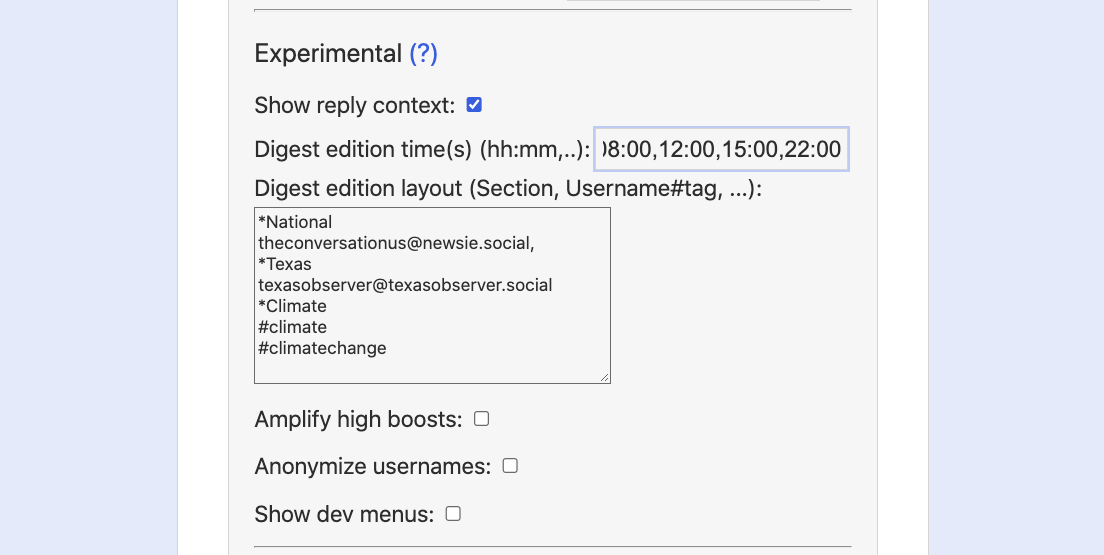
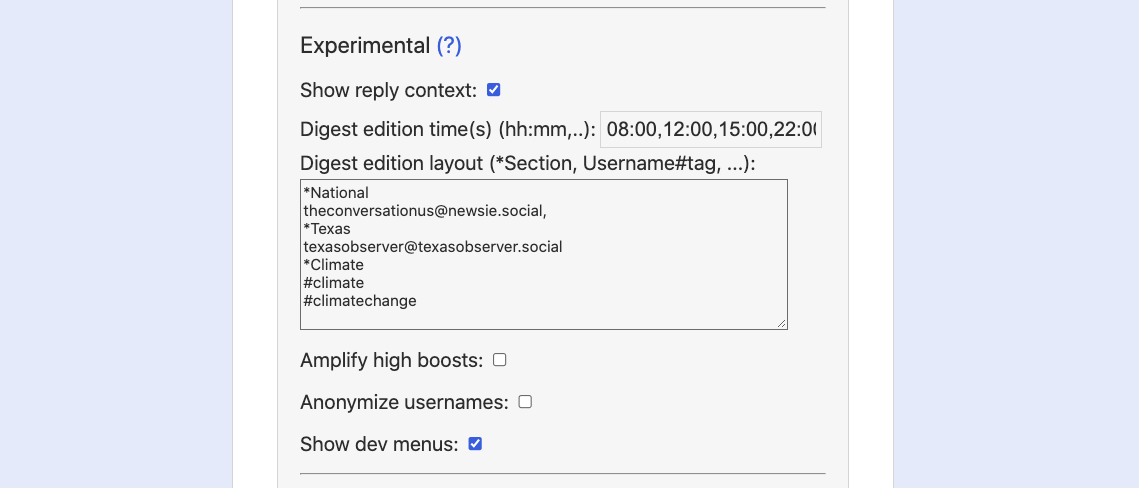
minor fixes

Changed region(s): [[0.154, 0.0, 0.8623, 1.0], [0.2772, 0.0, 0.7391, 0.0307], [0.6775, 0.6455, 0.7083, 0.6762]]

diff --git a/src/routes/_pages/settings/curation.html b/src/routes/_pages/settings/curation.html
@@ -57,7 +57,7 @@
              bind:value='$curationEditionTime' placeholder="hh:mm[, hh:mm, ...] local time for daily digest edition(s)"
       >
     <br>
-    <label for="curationEditionLayout">Digest edition layout (Section, Username#tag, ...):</label>
+    <label for="curationEditionLayout">Digest edition layout (*Section, Username#tag, ...):</label>
         <textarea bind:value="$curationEditionLayout"
                   placeholder="username1, username2@server2 *SectionName username3@server3#tag3, #followedTag, ..."
                   maxlength="1000"></textarea>

diff --git a/README.md b/README.md
@@ -40,7 +40,9 @@ Mahoot will also implement a feature where you can curate some posts into digest
 
 ## Using Mahoot
 
-You can try out Mahoot at [https://Mahoot.dev](https://mahoot.dev) using a browser on a computer or a smart phone (there is currently no phone app available). Simply log into a Mastodon instance and start browsing. You can go to the *Settings > Mahoot* menu to see the configuration options. The most important setting is *Average views per day* (see below), which statistically limits your viewing. (The [Mahoot User Guide](https://github.com/mitotic/pinafore-mahoot/blob/master/docs/MahootUserGuide.md) provides more detailed information on different settings.)
+You can try out Mahoot at [https://Mahoot.dev](https://mahoot.dev) using a browser on a computer or a smart phone. There is currently no separate phone app available, but Pinafore+Mahoot is a progressive web app (PWA) that can be installed on the phone. 
+
+To use Mahoot, simply log into a Mastodon instance and start browsing. You can go to the *Settings > Mahoot* menu to see the configuration options. The most important setting is *Average views per day* (see below), which statistically limits your viewing. (The [Mahoot User Guide](https://github.com/mitotic/pinafore-mahoot/blob/master/docs/MahootUserGuide.md) provides more detailed information on different settings.)
 
 <p align="center">
 <img src="https://raw.githubusercontent.com/mitotic/pinafore-mahoot/master/docs/images/SettingsBasic.png"

diff --git a/docs/MahootUserGuide.md b/docs/MahootUserGuide.md
@@ -24,7 +24,7 @@ The [README](https://github.com/mitotic/pinafore-mahoot/blob/master/docs/MahootU
 
 ## Getting Started
 
-You can try out Mahoot at [https://Mahoot.dev](https://mahoot.dev) using a web browser. There is currently no phone app available, but this client should work fine on a smart phone web browser.
+You can try out Mahoot at [https://Mahoot.dev](https://mahoot.dev) using a web browser. There is currently no separate phone app available, but this client should work fine on a smart phone web browser. It can also be installed as a progressive web app (PWA) on the phone.
 
 Click on the ``Log in`` button and type the name of your Mastodon instance to login. (*At this time, Mahoot only supports logging into a single Mastodon instance, even though Pinafore supports multiple instances.*)
 
